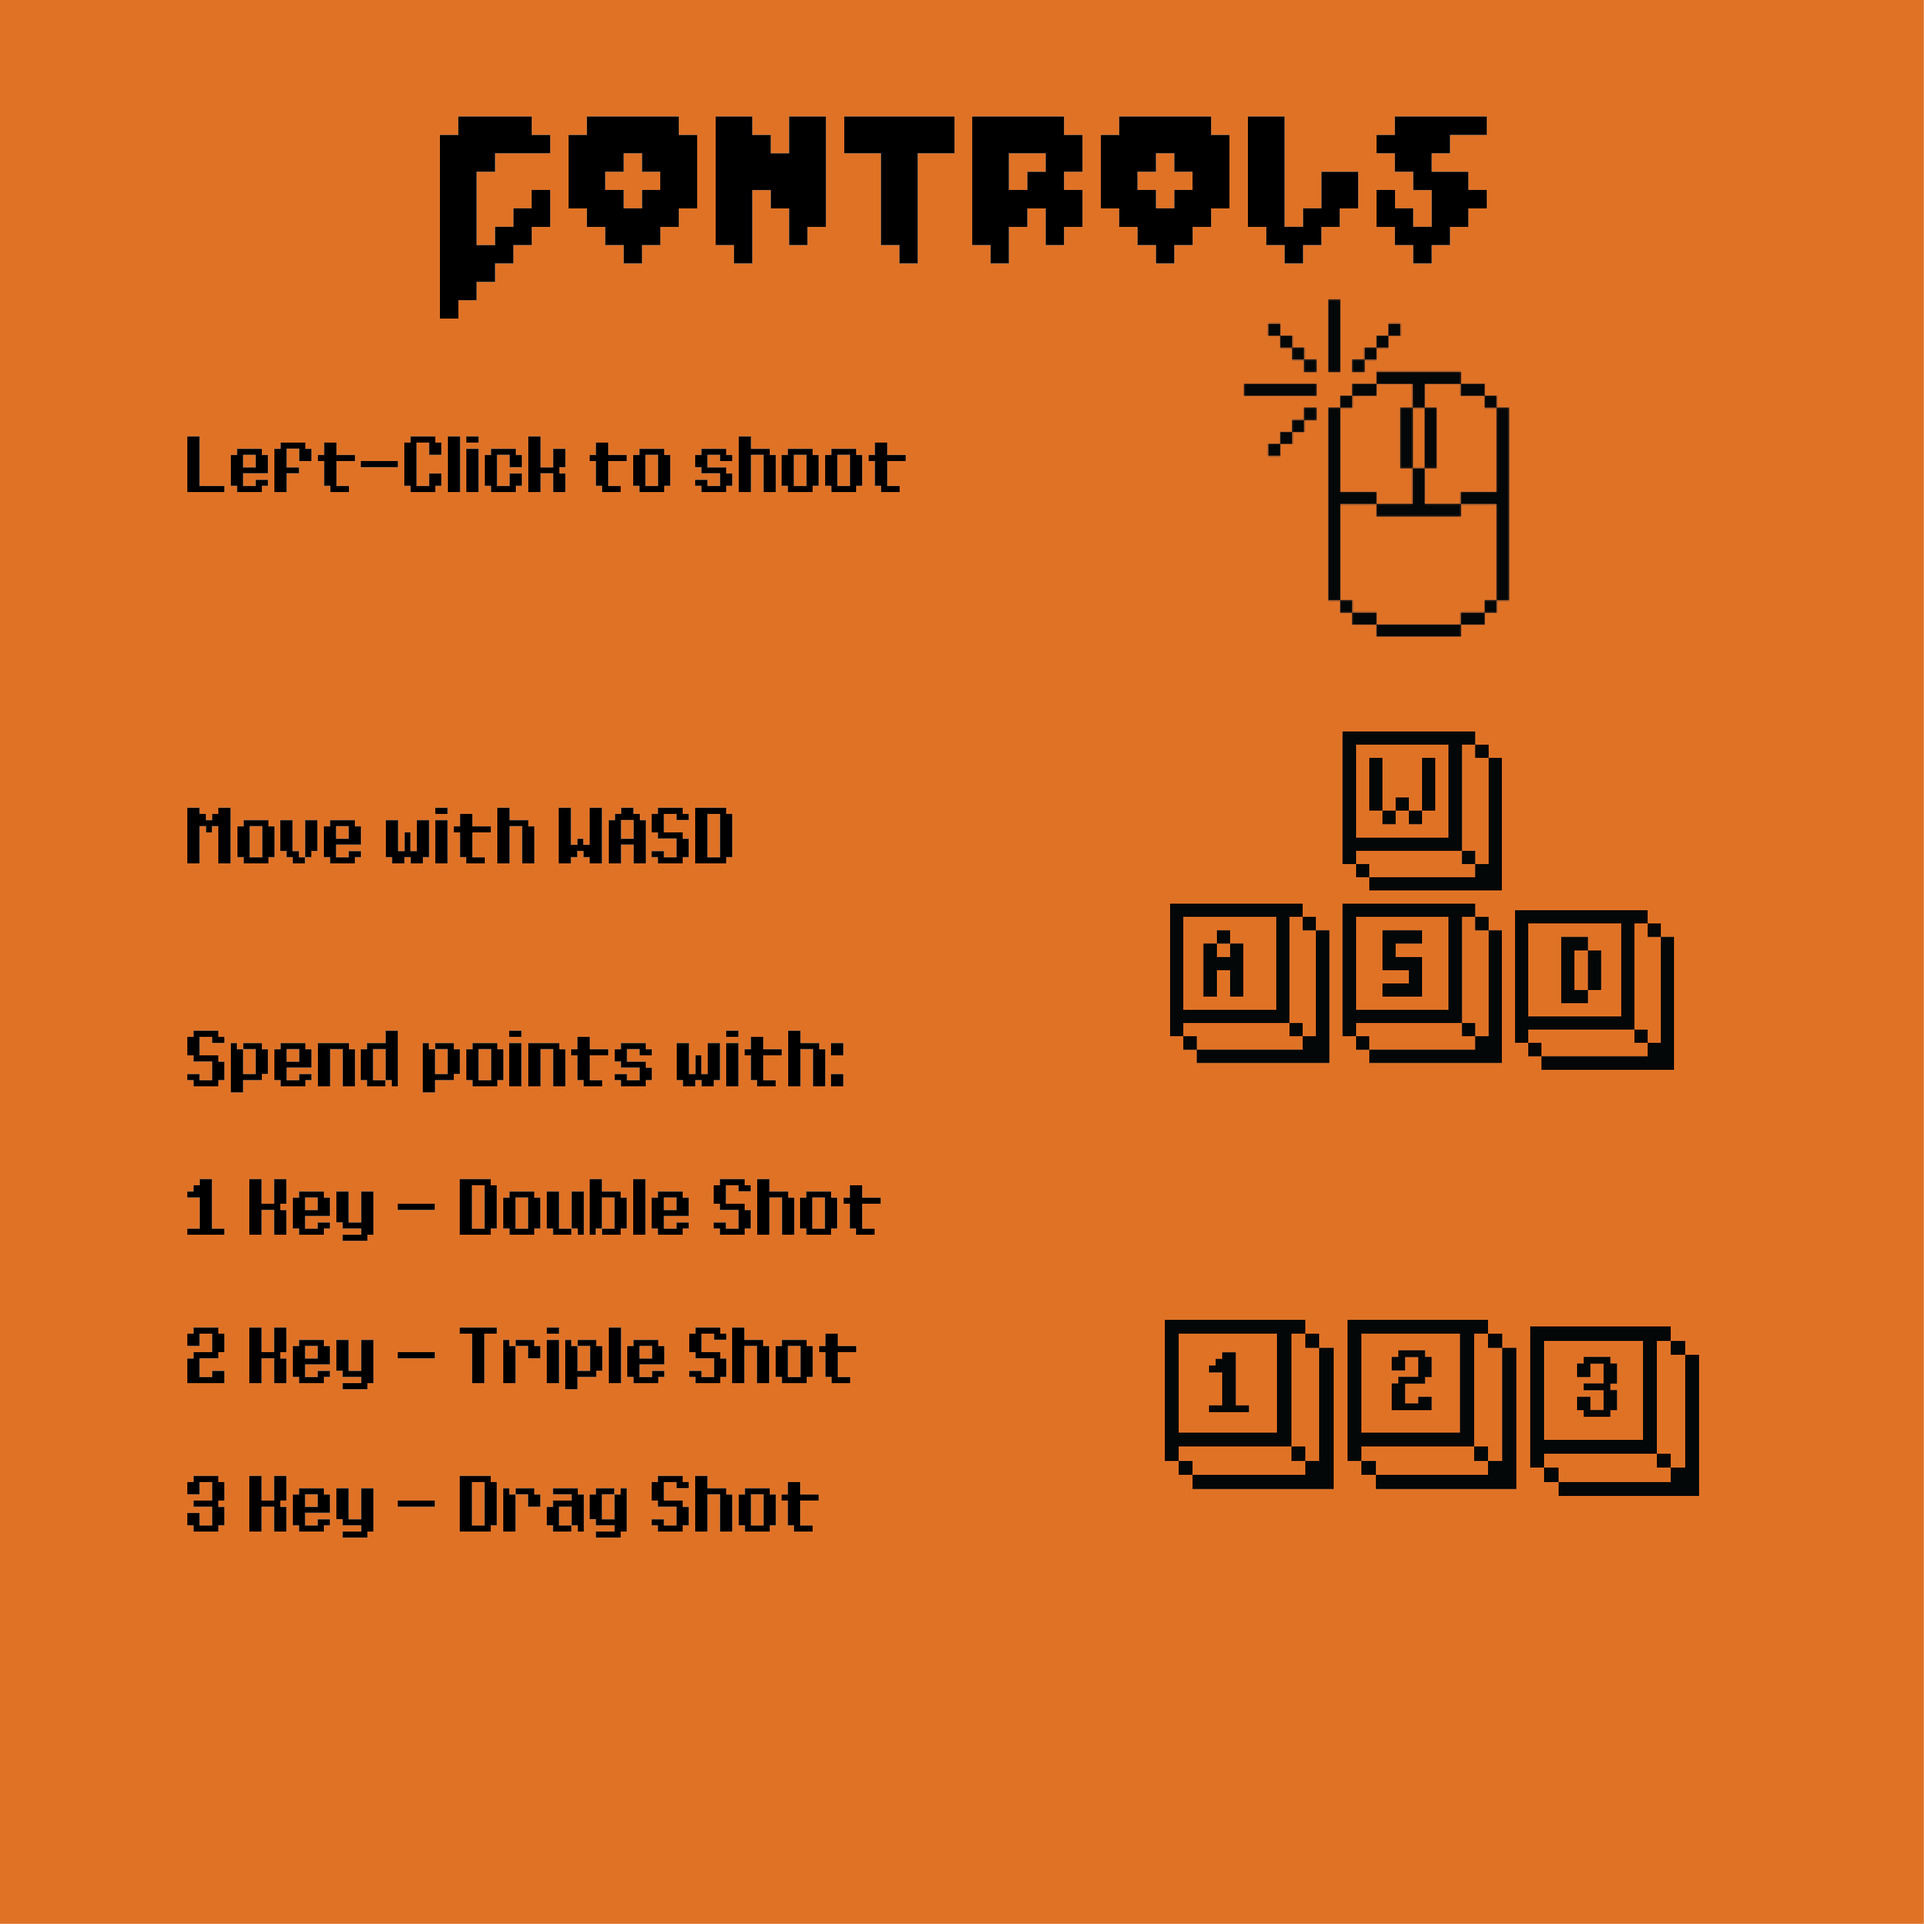
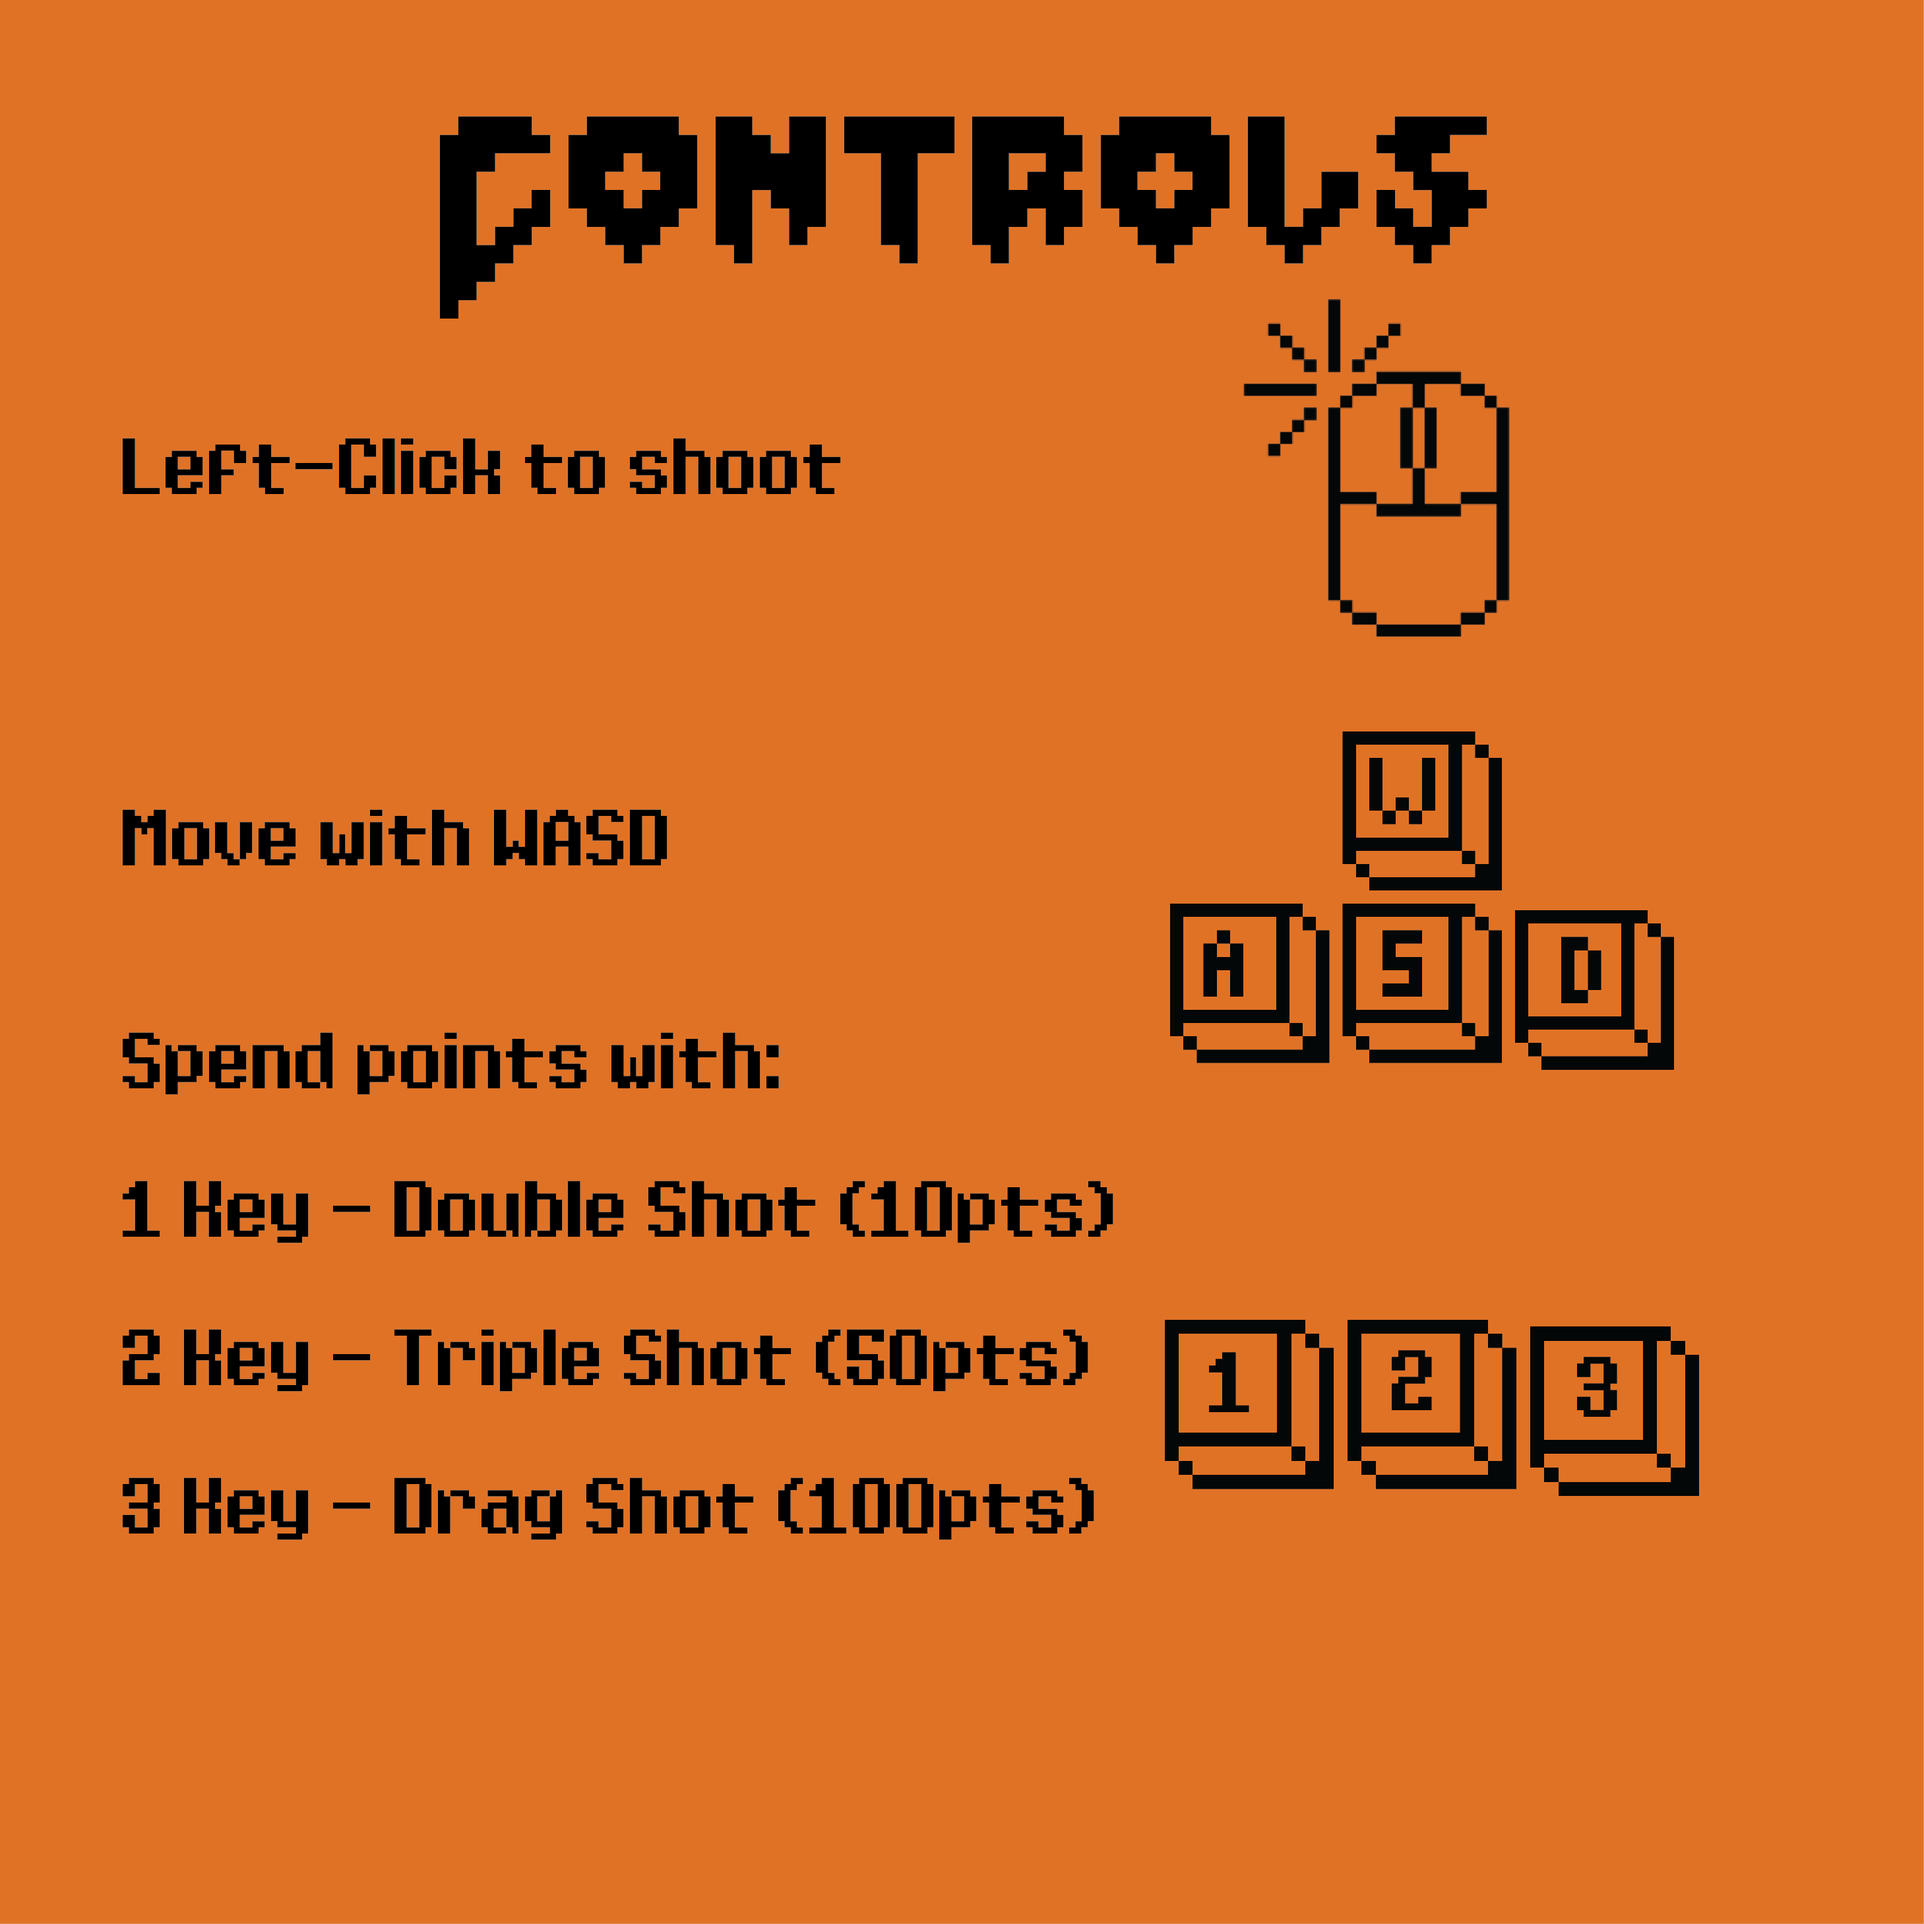
Fixed Controls and Notifs

diff --git a/sketch.js b/sketch.js
@@ -19,11 +19,13 @@ var bg;
 let bl;
 let dm1hp = 5;
 let blzhp = 10000
+var addNew = true;
 function setup() {
   canvas = createCanvas(700, 700);
   canvas.parent('myCanvas');
   player = new Player();
   t = "Press R to start";
+  note = "";
   bg = loadImage("assets/Background.png");
   myFont = loadFont("assets/PublicPixel.ttf");
   jpImage = loadImage("assets/pot0.png");
@@ -113,6 +115,7 @@ function restart() {
   zomb();
   dem1();
   blaz();
+  notif();
   frame++;
   // add these
   fill (255, 255, 255);
@@ -310,6 +313,36 @@ textSize(25);
 text('Press "R" To Start Game', width*0.5, height*0.86);
 }
 
+function notif() {
+  if (score >= 10 && upgrade === 0) {
+    stroke(255);
+    fill(255);
+    textSize(75);
+    textAlign(CENTER);
+    note = "Upgrade to Double Shot!!!";
+    textSize(25);
+    text(note, width*0.5, height*0.86);
+
+   }
+  if (score >=50 && upgrade === 1) {
+    stroke(255);
+    fill(255);
+    textSize(75);
+    textAlign(CENTER);
+    note = "Upgrade to Triple Shot!!!";
+    textSize(25);
+    text(note, width*0.5, height*0.86);
+   }
+   if (score >= 100 && upgrade === 2) {
+     stroke(255);
+     fill(255);
+     textSize(75);
+     textAlign(CENTER);
+    note = "Upgrade to Drag Shot!!!";
+     textSize(25);
+     text(note, width*0.5, height*0.86);
+}
+}
 
 
 function keyReleased() {
@@ -354,14 +387,16 @@ function keyReleased() {
    if (score >= 10 && key === '1' || key ==='1') {
     upgrade = 1
     score = score - 10
-
+    note = "";
     }
    if (score >=50 && key === '2' || key ==='2') {
     upgrade = 2
     score = score - 50
+    note = "";
     }
     if (score >= 100 && key === '3' || key === '3') {
     upgrade = 3
     score = score - 100
+    note = "";
 }
 }
